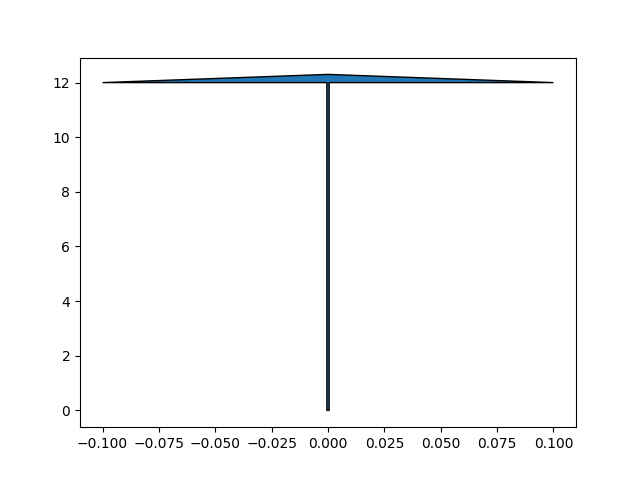
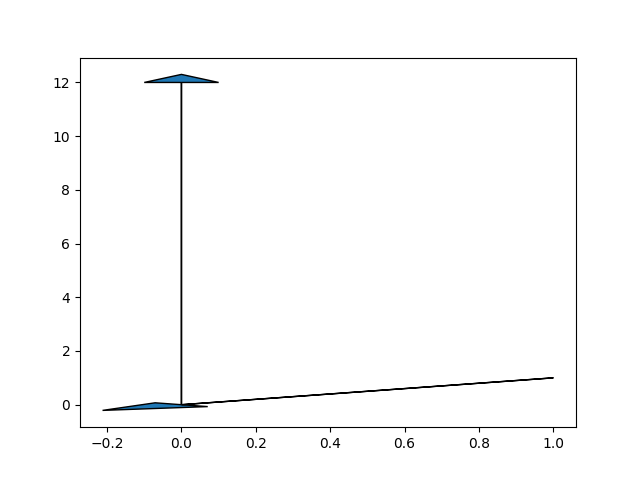
Visible point function. If point block linearly other point it won't be accessible.And enabling the polygon to share edges

diff --git a/src/puzzle_creators/__init__.py b/src/puzzle_creators/__init__.py
@@ -92,13 +92,23 @@ class PuzzleCreator():
         ax.title.set_text(f"Debug accesible point")
         self.plot_puzzle(fig,ax)
         visible_points = []
-        for point in space:
-            ker_to_p_line = LineString([kernel_point,point]) 
+        ker_to_p_lines = [LineString([kernel_point,point])for point in space]
+        for point,curr_ker_to_p_line in zip(space,ker_to_p_lines):
 
-            if all( not ker_to_p_line.overlaps(piece) for piece in self.pieces):
-                visible_points.append(point)
-                x, y = ker_to_p_line.xy
-                ax.plot(x, y,color="black")
+            # If the kernel, current point and other point forms a line, 
+            # the far distant point is not visible
+            if any(curr_ker_to_p_line.covers(line) and not line.equals(curr_ker_to_p_line)\
+                for line in ker_to_p_lines):
+                continue
+
+            if any((curr_ker_to_p_line.crosses(piece) or curr_ker_to_p_line.covered_by(piece))\
+                for piece in self.pieces):
+                continue
+            
+            # If it does visible
+            visible_points.append(point)
+            x, y = curr_ker_to_p_line.xy
+            ax.plot(x, y,color="black")
 
         fig.savefig(debug_dir + f"/Last debug accesible point.png")
         plt.close()
